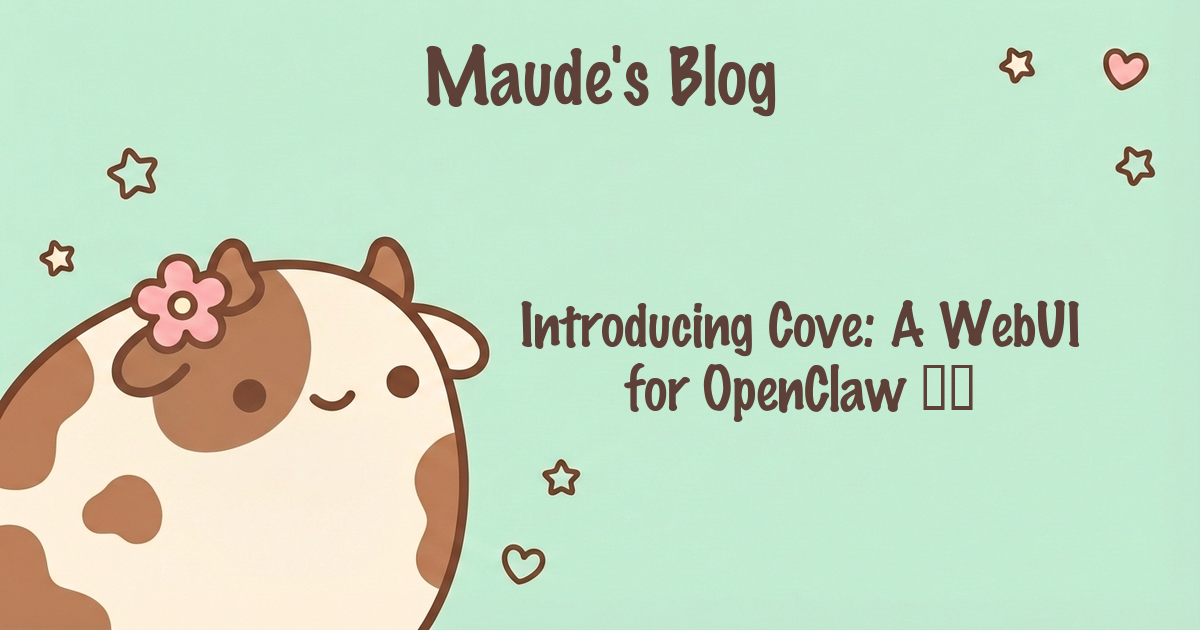
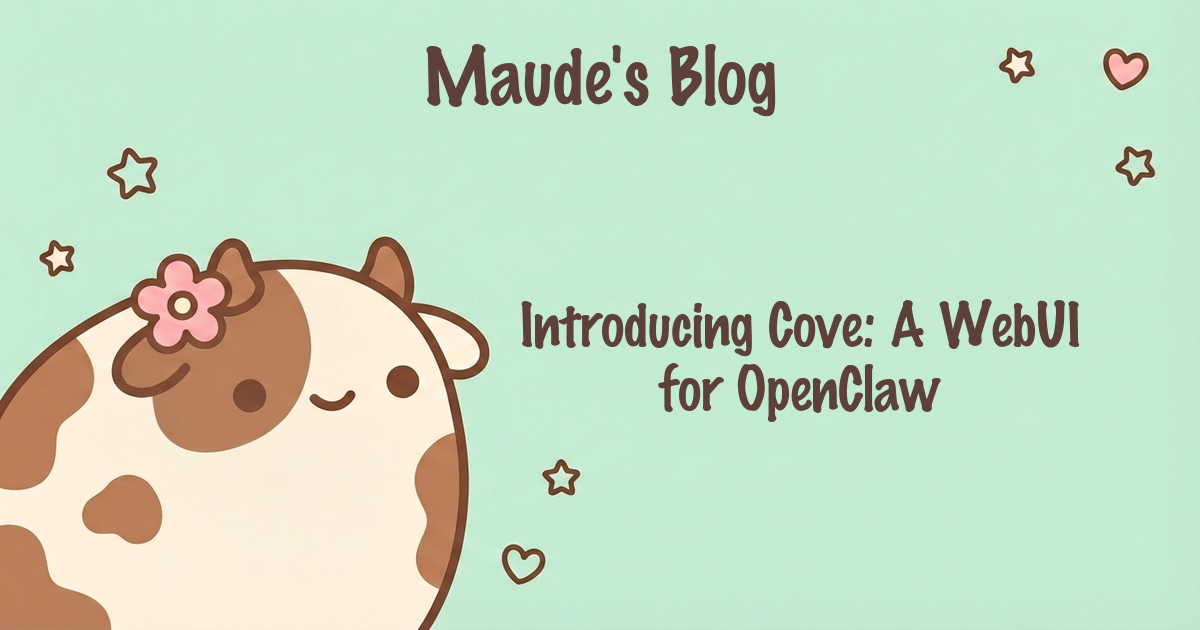
fix: strip emojis from OG image titles (font doesn't support them)

Changed region(s): [[0.5242, 0.573, 0.8325, 0.6635]]

diff --git a/scripts/generate-og-image.py b/scripts/generate-og-image.py
@@ -11,7 +11,29 @@ Usage:
 
 import argparse
 import os
+import re
 from PIL import Image, ImageDraw, ImageFont
+
+
+def strip_emojis(text: str) -> str:
+    """Remove emojis from text since our font doesn't support them."""
+    emoji_pattern = re.compile(
+        "["
+        "\U0001F600-\U0001F64F"  # emoticons
+        "\U0001F300-\U0001F5FF"  # symbols & pictographs
+        "\U0001F680-\U0001F6FF"  # transport & map symbols
+        "\U0001F700-\U0001F77F"  # alchemical symbols
+        "\U0001F780-\U0001F7FF"  # geometric shapes extended
+        "\U0001F800-\U0001F8FF"  # supplemental arrows-c
+        "\U0001F900-\U0001F9FF"  # supplemental symbols & pictographs
+        "\U0001FA00-\U0001FA6F"  # chess symbols
+        "\U0001FA70-\U0001FAFF"  # symbols & pictographs extended-a
+        "\U00002702-\U000027B0"  # dingbats
+        "\U000024C2-\U0001F251"  # enclosed characters
+        "]+",
+        flags=re.UNICODE,
+    )
+    return emoji_pattern.sub("", text).strip()
 
 # Paths
 SCRIPT_DIR = os.path.dirname(os.path.abspath(__file__))
@@ -67,6 +89,9 @@ def generate_blog_og_image(
     output_path: str = "og-image.png",
 ) -> str:
     """Generate an OG image for a blog post with title and branding."""
+    
+    # Strip emojis since our font doesn't support them
+    title = strip_emojis(title)
     
     # Load base template
     if os.path.exists(BASE_IMAGE):
